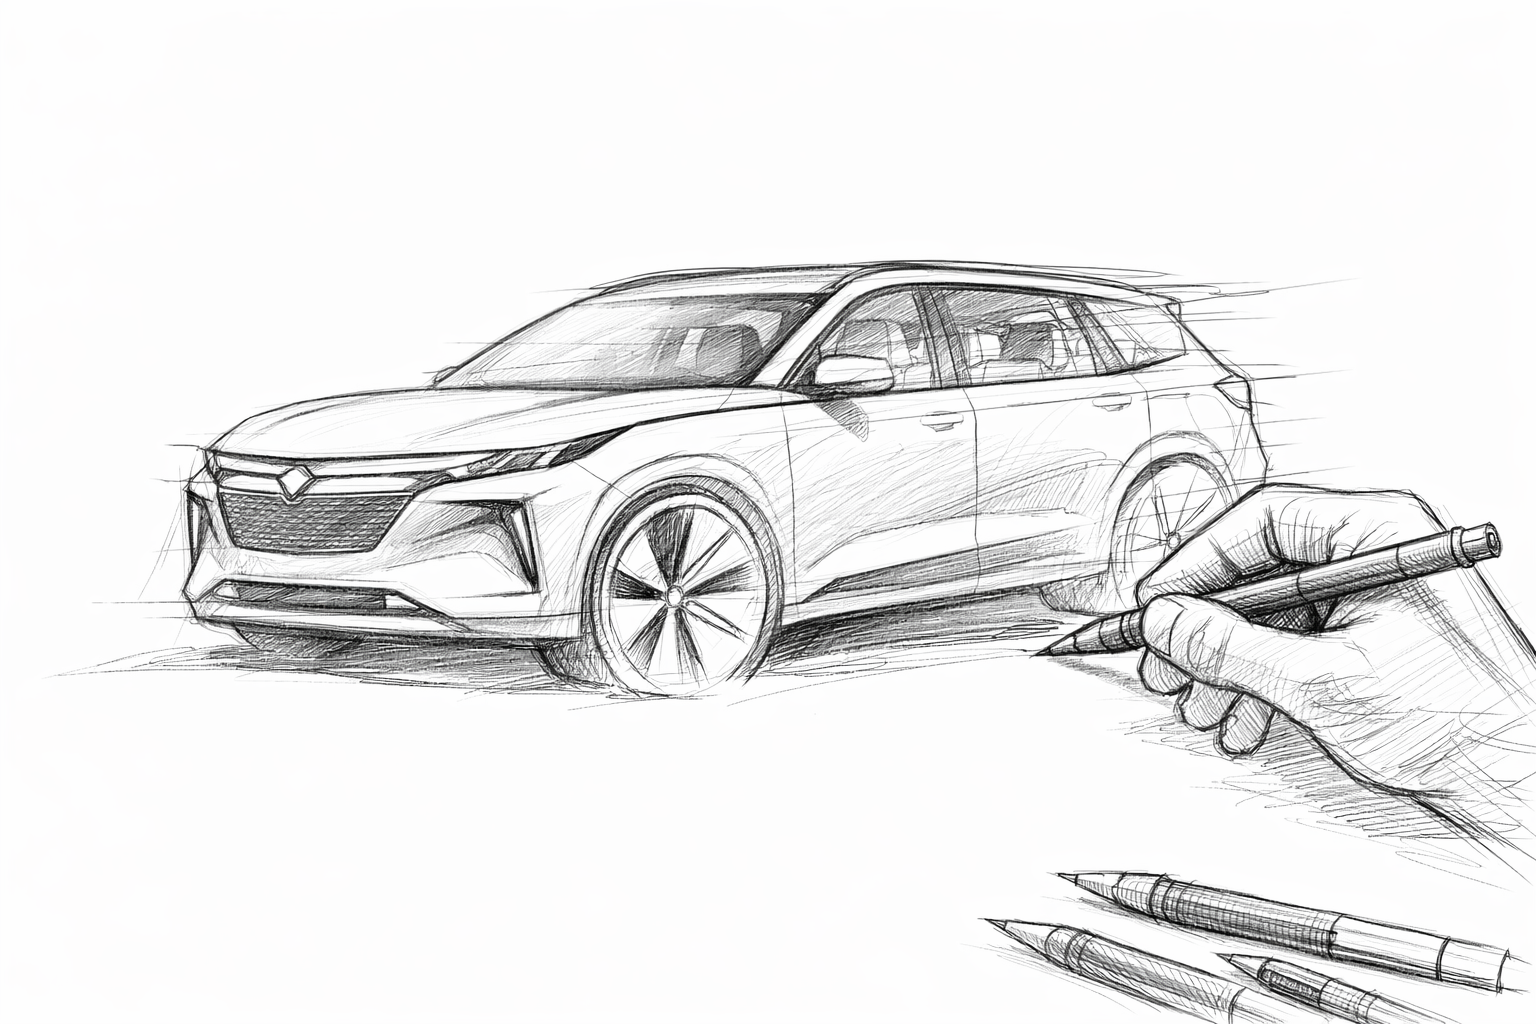
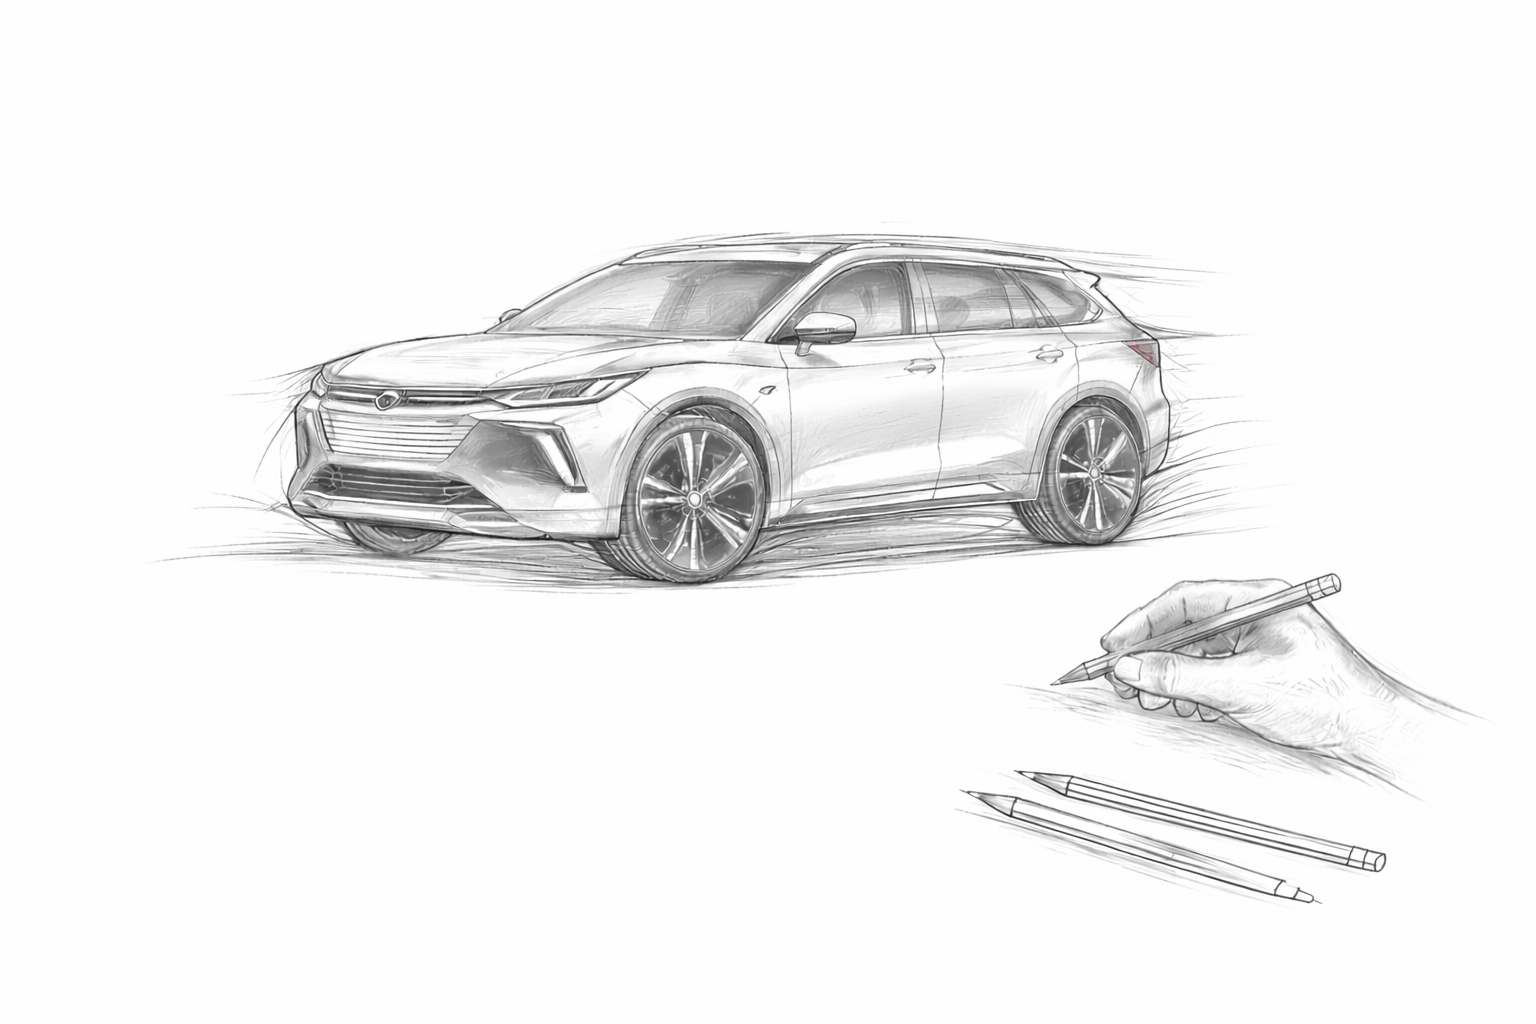
fix: swap desktop light hero image, center theme toggle on mobile
Use light-desktop2.png as the new desktop light hero image.
Move theme toggle to center of header on mobile to avoid
overlapping the hamburger button.

Changed region(s): [[0.0625, 0.2188, 1.0, 1.0]]

diff --git a/app/globals.css b/app/globals.css
@@ -2034,6 +2034,11 @@ html[data-theme="light"] .overview-stat[data-category="selfdriving"] { --stat-gl
     align-items: center;
     gap: 12px;
   }
+  .theme-toggle {
+    position: static;
+    transform: none;
+    margin: 0 auto;
+  }
   .nav-drawer-overlay {
     display: block;
     position: fixed;
